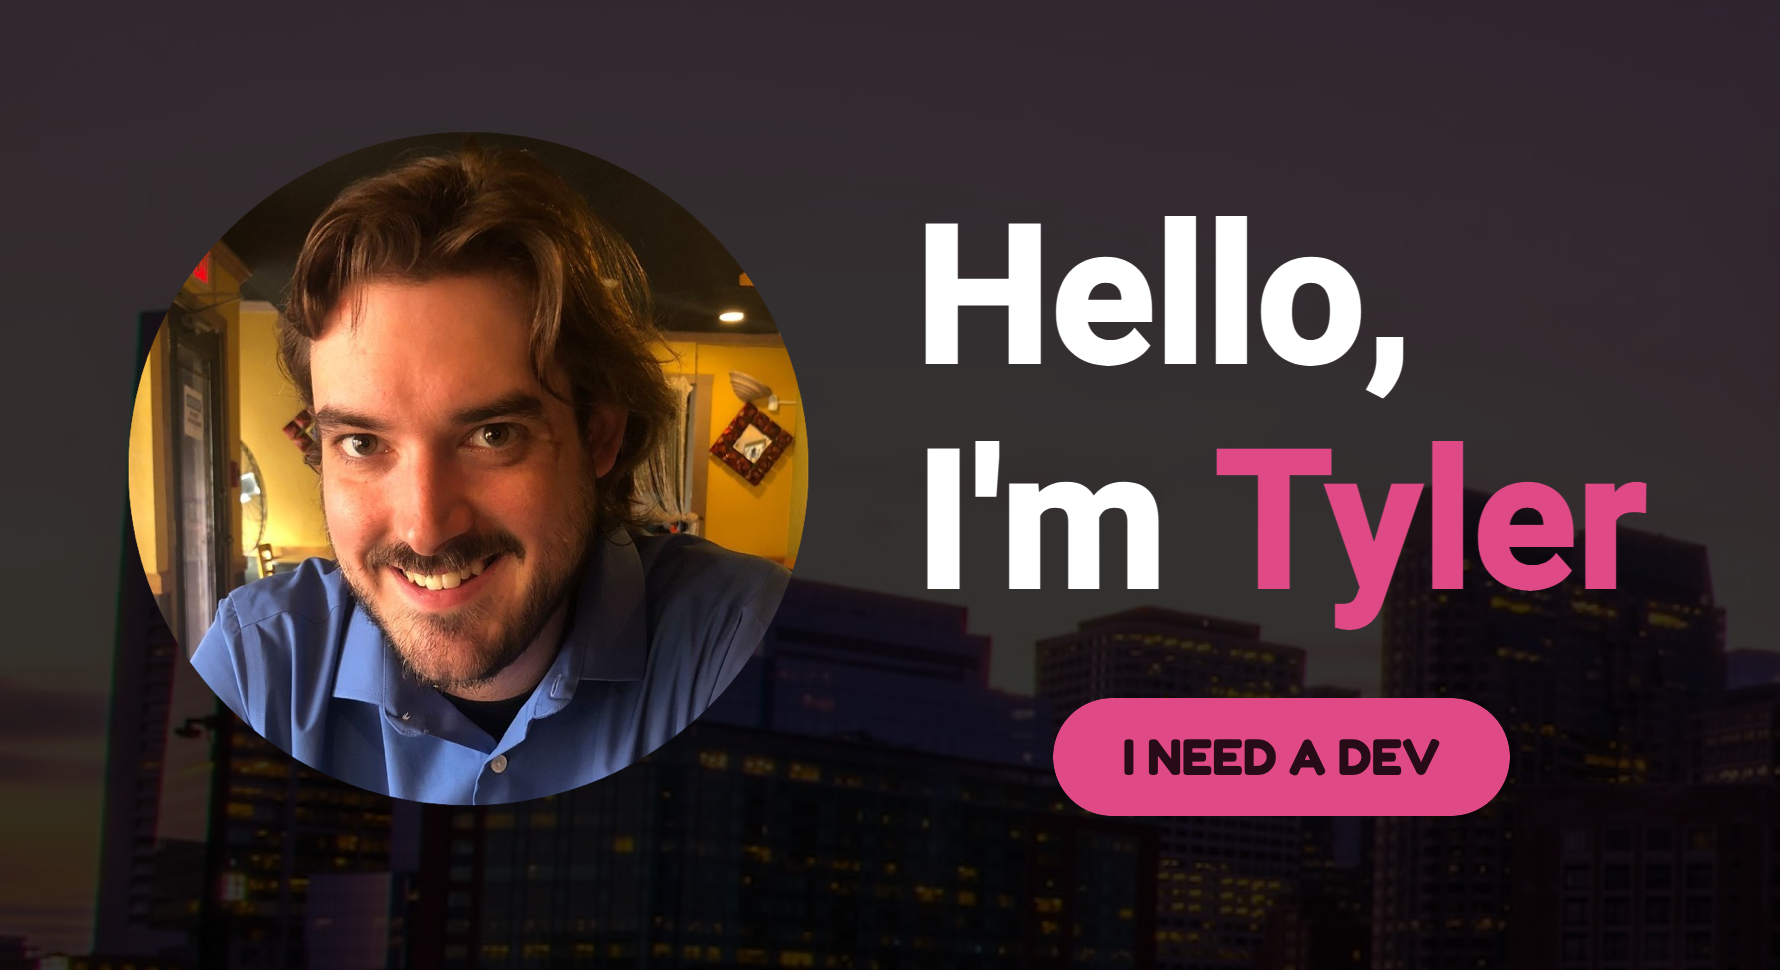
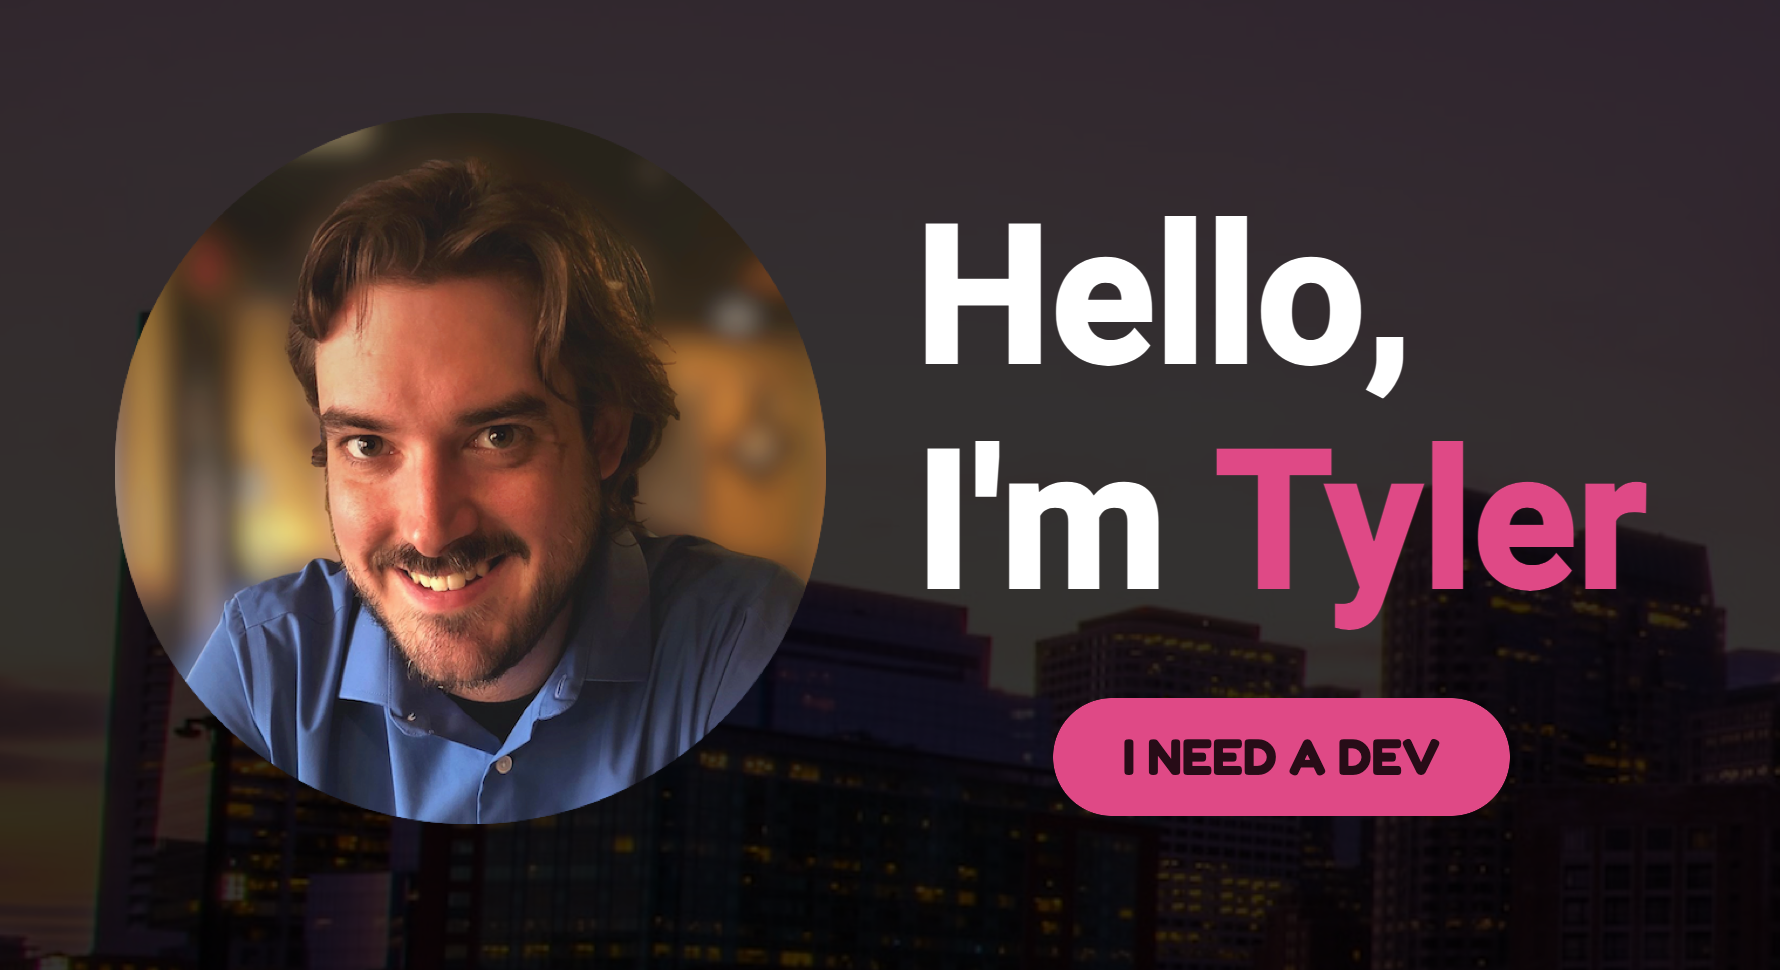
Updated business link for instagram and changed my SEO photo

Changed region(s): [[0.0618, 0.1237, 0.4635, 0.866]]

diff --git a/index.html b/index.html
@@ -618,7 +618,9 @@
                 /></a>
               </div>
               <div class="social-item">
-                <a href="https://www.instagram.com/yeoldeknob/" target="_blank"
+                <a
+                  href="https://www.instagram.com/tyler_is_coding/"
+                  target="_blank"
                   ><img src="/Images/icon-instagram.png" alt="Instagram"
                 /></a>
               </div>
